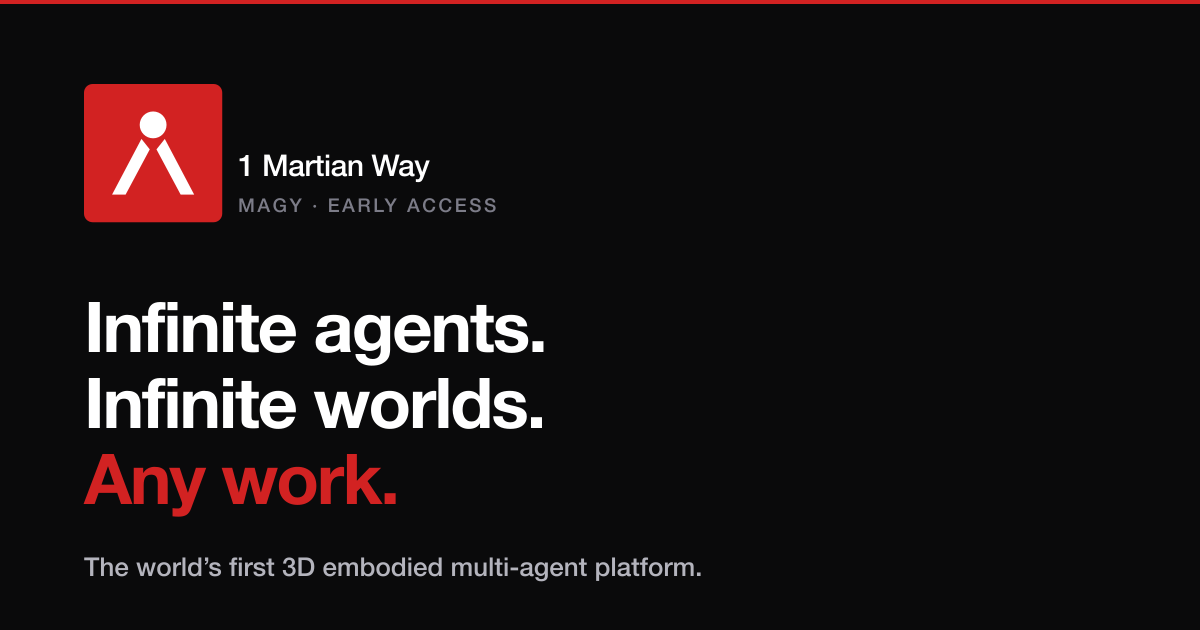
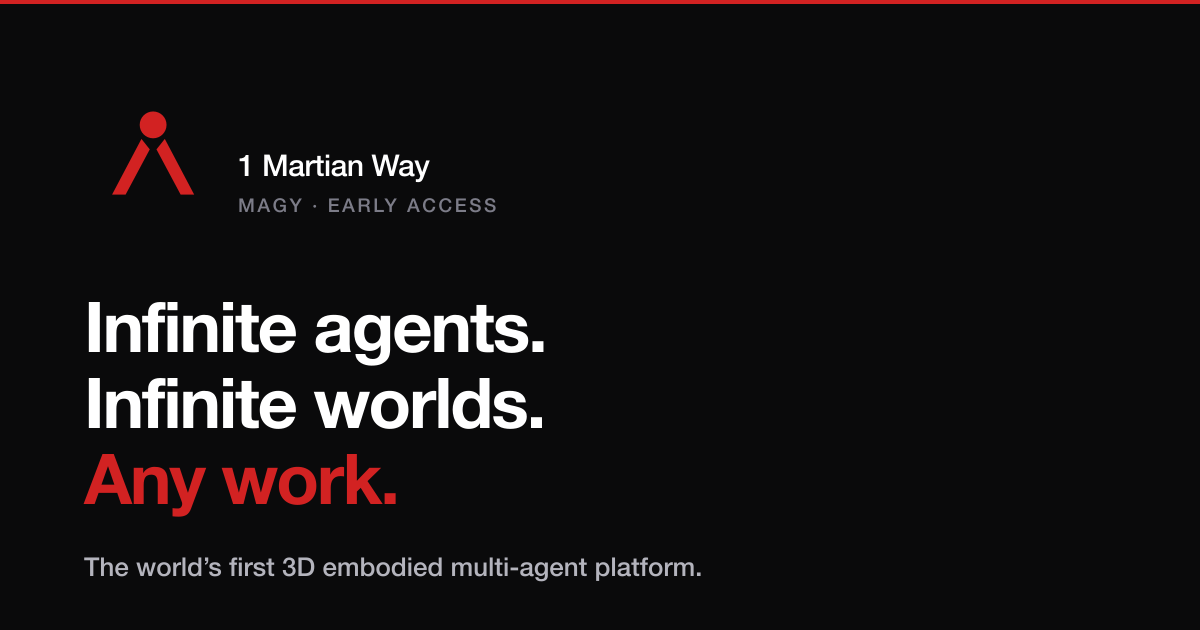
Take the box off the mark, and let alpha through
The figure is the identity. Logo.tsx has said so since it was written —
"THE SYMBOL IS THE BRAND... the red square behind it is a background, not
part of the identity" — but every surface still shipped the tile, so the
thing people actually saw was a red button with a shape punched out of it.

The mark now stands alone and carries the brand red itself, so nothing is
lost by dropping the field. `mark` becomes the DEFAULT variant on both
LogoGlyph and Logo; header and footer follow.

Transparent wherever alpha is honoured: app/icon.svg, favicon.ico (ICO
carries alpha through its PNG payload — it only ever looked opaque
because we were calling flatten on it), the PWA "any" icons, the email
CID logo, and the OG card, which already had its own ground and did not
need a second one on top.

TWO SURFACES DELIBERATELY KEEP THE RED FIELD, and this is not an
oversight:

  apple-icon — iOS ignores alpha and composites on BLACK. A transparent
    apple-touch icon is not a floating mark, it is a red mark on a black
    square nobody chose.

  512-maskable — Android masks to its own circle/squircle and expects the
    icon to fill the safe area edge to edge. Transparent renders the mark
    floating on whatever grey the launcher picks. The field IS the icon
    here; that is what maskable means.

Both are noted at the call site so the next person does not "fix" them.

Favicons keep the compact 1.3x optical scale: at 16px the as-drawn legs
thin to ~1px and the head merges into them.
[…]

Changed region(s): [[0.0617, 0.1206, 0.185, 0.3619]]

diff --git a/app/components/brand/Logo.tsx b/app/components/brand/Logo.tsx
@@ -32,7 +32,15 @@ const LEG_L = "M218.4 210.2 L245.2 243.9 L167.4 389.5 L123.8 389.5 Z";
 const LEG_R = "M293.6 210.2 L266.8 243.9 L344.6 389.5 L388.2 389.5 Z";
 
 type LogoProps = {
-    /** `tile` = red square + white figure. `mark` = figure alone in currentColor. */
+    /**
+     * `mark` = figure alone in currentColor. THE DEFAULT, and the primary form:
+     * the figure is the identity and the field behind it never was.
+     *
+     * `tile` = red square + white figure. Now only for surfaces that ignore
+     * alpha or require an edge-to-edge fill — apple-touch icons (iOS composites
+     * on black) and Android maskable icons (the launcher crops to its own
+     * shape). See the exception note in scripts/generate-brand-assets.mjs.
+     */
     variant?: "tile" | "mark";
     /** Rendered height in px. */
     size?: number;
@@ -44,7 +52,7 @@ type LogoProps = {
 };
 
 export function LogoGlyph({
-    variant = "tile",
+    variant = "mark",
     size = 32,
     radius = 0,
     title,
@@ -83,7 +91,7 @@ type LockupProps = LogoProps & {
 
 /** Glyph + wordmark, optionally linked. This is what the header and footer use. */
 export function Logo({
-    variant = "tile",
+    variant = "mark",
     size = 32,
     radius = 6,
     wordmark = "full",

diff --git a/app/components/site/Header.tsx b/app/components/site/Header.tsx
@@ -33,7 +33,10 @@ export default function Header() {
                     href="/"
                     className="flex shrink-0 items-center gap-2.5 text-[14.5px] font-extrabold tracking-[-0.015em]"
                 >
-                    <LogoGlyph size={21} radius={64} />
+                    {/* mark, not tile — the figure IS the identity and the red
+                    square was only ever a background. It carries the brand red
+                    itself now, so nothing is lost by dropping the field. */}
+                <LogoGlyph variant="mark" size={23} className="text-red" />
                     <span className="hidden sm:inline">1 Martian Way</span>
                 </Link>
 

diff --git a/app/components/site/Footer.tsx b/app/components/site/Footer.tsx
@@ -108,7 +108,7 @@ export default function Footer() {
                 <div className="grid gap-8 sm:grid-cols-2 lg:grid-cols-[1.6fr_repeat(3,1fr)]">
                     <div>
                         <Link href="/" className="flex items-center gap-2.5 text-[14.5px] font-extrabold tracking-[-0.015em]">
-                            <LogoGlyph size={21} radius={64} />
+                            <LogoGlyph variant="mark" size={23} className="text-red" />
                             1 Martian Way
                         </Link>
                         <p className="text-fg-muted mt-3 max-w-[34ch] text-[13px]">
